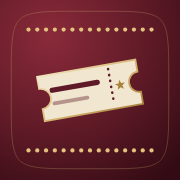
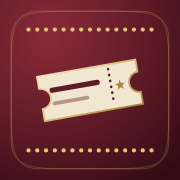
Iconos uniformes con marco de iOS y URLs versionadas para que iOS los recargue
Claude-Session: https://claude.ai/code/session_016k35bzsaVrxmGnMwsVbJwM

diff --git a/index.html b/index.html
@@ -11,9 +11,9 @@
 <meta name="mobile-web-app-capable" content="yes">
 <meta name="apple-mobile-web-app-title" content="CiccApps">
 <link rel="manifest" href="manifest.webmanifest">
-<link rel="apple-touch-icon" href="iconos/ciccapps-180.png">
+<link rel="apple-touch-icon" href="iconos/ciccapps-180.png?v=2">
 <link rel="icon" type="image/png" href="iconos/favicon-32.png">
-<link rel="stylesheet" href="compartido/ciccapps.css?v=8">
+<link rel="stylesheet" href="compartido/ciccapps.css?v=9">
 <style>
 /* Portada: la firma arriba, las apps en una cuadrícula de dos en dos y cómo instalarlas debajo */
 * { box-sizing: border-box; }
@@ -61,10 +61,10 @@ header p { margin: 0; font-family: var(--cc-serif); font-style: italic; font-siz
   </header>
 
   <main class="apps">
-    <a class="app" href="bitacora/"><span class="ico"><img src="iconos/bitacora-192.png" alt=""></span><h2>Bitácora</h2><p>Plan de lectura, compras y qué leer según el mood.</p><small>iPhone</small></a>
-    <a class="app" href="taquilla/"><span class="ico"><img src="iconos/la-taquilla-192.png" alt=""></span><h2>La Taquilla</h2><p>Diario de cine y series, con watchlist por mood.</p><small>iPhone</small></a>
-    <a class="app" href="banda-sonora/"><span class="ico"><img src="iconos/banda-sonora-192.png" alt=""></span><h2>Banda Sonora</h2><p>Las doce listas de Spotify por momento y energía.</p><small>iPhone</small></a>
-    <a class="app" href="interes-compuesto/"><span class="ico"><img src="iconos/interes-compuesto-192.png" alt=""></span><h2>Interés compuesto</h2><p>Presentación interactiva para clientes.</p><small>Ordenador</small></a>
+    <a class="app" href="bitacora/"><span class="ico"><img src="iconos/bitacora-192.png?v=2" alt=""></span><h2>Bitácora</h2><p>Plan de lectura, compras y qué leer según el mood.</p><small>iPhone</small></a>
+    <a class="app" href="taquilla/"><span class="ico"><img src="iconos/la-taquilla-192.png?v=2" alt=""></span><h2>La Taquilla</h2><p>Diario de cine y series, con watchlist por mood.</p><small>iPhone</small></a>
+    <a class="app" href="banda-sonora/"><span class="ico"><img src="iconos/banda-sonora-192.png?v=2" alt=""></span><h2>Banda Sonora</h2><p>Las doce listas de Spotify por momento y energía.</p><small>iPhone</small></a>
+    <a class="app" href="interes-compuesto/"><span class="ico"><img src="iconos/interes-compuesto-192.png?v=2" alt=""></span><h2>Interés compuesto</h2><p>Presentación interactiva para clientes.</p><small>Ordenador</small></a>
   </main>
 
   <section class="instalar" aria-label="Cómo instalar">

diff --git a/taquilla/index.html b/taquilla/index.html
@@ -12,9 +12,9 @@
 <meta name="apple-mobile-web-app-title" content="La Taquilla">
 <meta name="apple-mobile-web-app-status-bar-style" content="default">
 <link rel="manifest" href="manifest.webmanifest">
-<link rel="apple-touch-icon" href="../iconos/la-taquilla-180.png">
-<link rel="icon" type="image/png" href="../iconos/la-taquilla-192.png">
-<link rel="stylesheet" href="../compartido/ciccapps.css?v=8">
+<link rel="apple-touch-icon" href="../iconos/la-taquilla-180.png?v=2">
+<link rel="icon" type="image/png" href="../iconos/la-taquilla-192.png?v=2">
+<link rel="stylesheet" href="../compartido/ciccapps.css?v=9">
 <link rel="preconnect" href="https://fonts.googleapis.com">
 <link rel="stylesheet" href="https://fonts.googleapis.com/css2?family=Bebas+Neue&family=Manrope:wght@400;500;600;700&family=JetBrains+Mono:wght@400;500&display=swap">
 <style>
@@ -155,7 +155,7 @@ footer{display:flex;gap:8px;flex-wrap:wrap;justify-content:center;font-size:12px
 <div class="toast" id="toast" hidden></div>
 
 <script src="../compartido/supabase.js"></script>
-<script src="../compartido/cuenta.js?v=8"></script>
+<script src="../compartido/cuenta.js?v=9"></script>
 <script>
 const MOODS={risa:"Reírme",tension:"Tensión",pensar:"Pensar",llorar:"Emocionarme",accion:"Acción",epico:"Épica",ligera:"Ligera",clasico:"Clásico pendiente"};
 const WHERE={cine:"Cine",streaming:"Streaming",casa:"En casa"};
@@ -301,7 +301,7 @@ async function cargar(){
   if(r.error){document.getElementById("view").innerHTML='<p class="cargando">No se pudo cargar. Comprueba la conexión y vuelve a abrir la app.</p>';return}
   items={};r.data.forEach(x=>items[x.id]=deFila(x));listo=true;if(!editId)render();
 }
-CiccCuenta.iniciar({app:"La Taquilla",icono:"../iconos/la-taquilla-192.png",lema:"Cada película, una entrada"}).then(async r=>{
+CiccCuenta.iniciar({app:"La Taquilla",icono:"../iconos/la-taquilla-192.png?v=2",lema:"Cada película, una entrada"}).then(async r=>{
   sb=r.sb;CiccCuenta.firma("La Taquilla",document.getElementById("pie"));await cargar();
   document.addEventListener("visibilitychange",()=>{if(document.visibilityState==="visible"&&!editId)cargar()});
 });

diff --git a/bitacora/index.html b/bitacora/index.html
@@ -12,9 +12,9 @@
 <meta name="apple-mobile-web-app-title" content="Bitácora">
 <meta name="apple-mobile-web-app-status-bar-style" content="default">
 <link rel="manifest" href="manifest.webmanifest">
-<link rel="apple-touch-icon" href="../iconos/bitacora-180.png">
-<link rel="icon" type="image/png" href="../iconos/bitacora-192.png">
-<link rel="stylesheet" href="../compartido/ciccapps.css?v=8">
+<link rel="apple-touch-icon" href="../iconos/bitacora-180.png?v=2">
+<link rel="icon" type="image/png" href="../iconos/bitacora-192.png?v=2">
+<link rel="stylesheet" href="../compartido/ciccapps.css?v=9">
 <style>
 /* Layout: resumen + "ahora" arriba; tres vistas (Plan con estanterías por etapa, ¿Qué leo? por mood, Compras); ficha del libro como hoja inferior */
 :root{
@@ -267,7 +267,7 @@ footer{font-size:12px;color:var(--muted);text-align:center;display:flex;flex-dir
 <div class="toast" id="toast" hidden></div>
 
 <script src="../compartido/supabase.js"></script>
-<script src="../compartido/cuenta.js?v=8"></script>
+<script src="../compartido/cuenta.js?v=9"></script>
 <script>
 const MOODS={
  engancha:["Que me enganche","No poder soltarlo"],
@@ -712,7 +712,7 @@ async function cargar(){
   if(!e.data.length){vistaEmpezar();return}
   document.body.classList.remove("nuevo");  construir(e.data,l.data);if(!sheetId)render();
 }
-CiccCuenta.iniciar({app:"Bitácora",icono:"../iconos/bitacora-192.png",lema:"¿Qué leo hoy?"}).then(async r=>{
+CiccCuenta.iniciar({app:"Bitácora",icono:"../iconos/bitacora-192.png?v=2",lema:"¿Qué leo hoy?"}).then(async r=>{
   sb=r.sb;CiccCuenta.firma("Bitácora",document.getElementById("pie"));await cargar();
   document.addEventListener("visibilitychange",()=>{if(document.visibilityState==="visible"&&!sheetId)cargar()});
 });

diff --git a/banda-sonora/index.html b/banda-sonora/index.html
@@ -6,9 +6,9 @@
 <meta name="apple-mobile-web-app-title" content="Banda Sonora">
 <meta name="apple-mobile-web-app-status-bar-style" content="black-translucent">
 <link rel="manifest" href="manifest.webmanifest">
-<link rel="apple-touch-icon" href="../iconos/banda-sonora-180.png">
-<link rel="icon" type="image/png" href="../iconos/banda-sonora-192.png">
-<link rel="stylesheet" href="../compartido/ciccapps.css?v=8">
+<link rel="apple-touch-icon" href="../iconos/banda-sonora-180.png?v=2">
+<link rel="icon" type="image/png" href="../iconos/banda-sonora-192.png?v=2">
+<link rel="stylesheet" href="../compartido/ciccapps.css?v=9">
 </head><body>
 
 <link rel="preconnect" href="https://fonts.googleapis.com">

diff --git a/interes-compuesto/index.html b/interes-compuesto/index.html
@@ -5,8 +5,8 @@
 <meta name="mobile-web-app-capable" content="yes">
 <meta name="apple-mobile-web-app-title" content="Interés">
 <link rel="manifest" href="manifest.webmanifest">
-<link rel="apple-touch-icon" href="../iconos/interes-compuesto-180.png">
-<link rel="icon" type="image/png" href="../iconos/interes-compuesto-192.png">
+<link rel="apple-touch-icon" href="../iconos/interes-compuesto-180.png?v=2">
+<link rel="icon" type="image/png" href="../iconos/interes-compuesto-192.png?v=2">
 </head><body>
 
 <link rel="preconnect" href="https://fonts.googleapis.com">

diff --git a/privacidad/index.html b/privacidad/index.html
@@ -8,7 +8,7 @@
 <meta name="theme-color" content="#F3EFE4" media="(prefers-color-scheme: light)">
 <meta name="theme-color" content="#0F1A17" media="(prefers-color-scheme: dark)">
 <link rel="icon" type="image/png" href="../iconos/favicon-32.png">
-<link rel="stylesheet" href="../compartido/ciccapps.css?v=8">
+<link rel="stylesheet" href="../compartido/ciccapps.css?v=9">
 <style>
 * { box-sizing: border-box; }
 html { -webkit-text-size-adjust: 100%; }

diff --git a/sw.js b/sw.js
@@ -1,5 +1,5 @@
 /* CiccApps — funciona sin conexión: guarda una copia de cada app y sus piezas al visitarlas. */
-const CACHE = 'ciccapps-v9';
+const CACHE = 'ciccapps-v10';
 self.addEventListener('install', e => self.skipWaiting());
 self.addEventListener('activate', e => e.waitUntil(
   caches.keys().then(ks => Promise.all(ks.filter(k => k !== CACHE).map(k => caches.delete(k)))).then(() => self.clients.claim())
